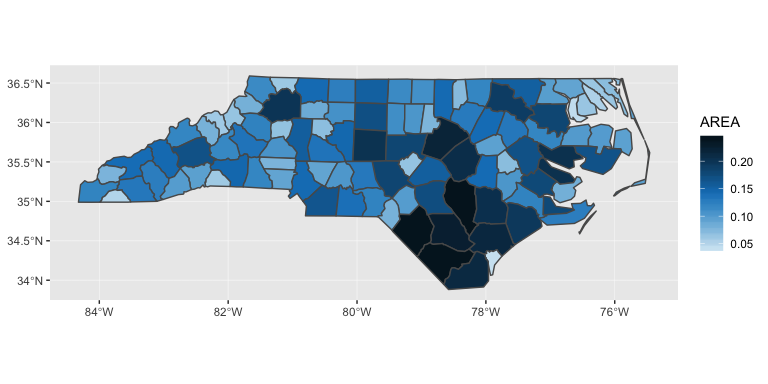
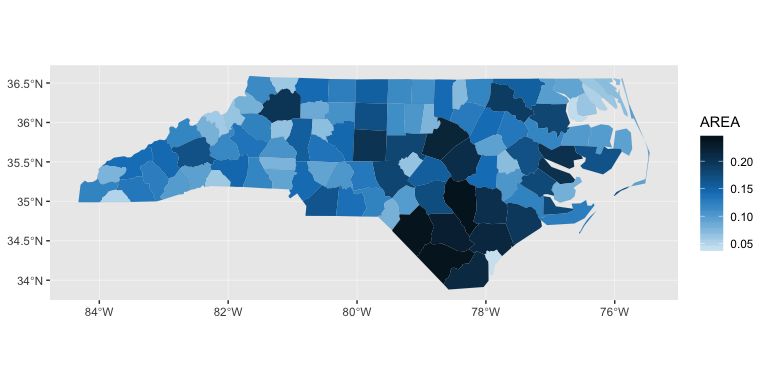
improve readme, add functions

diff --git a/README.md b/README.md
@@ -64,19 +64,13 @@ tinter(hex, steps = 10, crop = 7)
 
 ![](man/figures/README-crop-1.png)<!-- -->
 
-Use tinter to create a palette for a choropleth map.
+Create palette for a choropleth
+map.
 
 ``` r
-ggplot2::ggplot() +
-  ggplot2::geom_sf(data = sf::st_read(system.file(package = "sf", "shape/nc.shp")), ggplot2::aes(fill = AREA)) +
+ggplot2::ggplot(data = sf::st_read(system.file(package = "sf", "shape/nc.shp"))) +
+  ggplot2::geom_sf(ggplot2::aes(fill = AREA), colour = "black", lwd = 0.01) +
   ggplot2::scale_fill_gradientn(colours = tinter(hex))
-#> Reading layer `nc' from data source `/Library/Frameworks/R.framework/Versions/3.5/Resources/library/sf/shape/nc.shp' using driver `ESRI Shapefile'
-#> Simple feature collection with 100 features and 14 fields
-#> geometry type:  MULTIPOLYGON
-#> dimension:      XY
-#> bbox:           xmin: -84.32385 ymin: 33.88199 xmax: -75.45698 ymax: 36.58965
-#> epsg (SRID):    4267
-#> proj4string:    +proj=longlat +datum=NAD27 +no_defs
 ```
 
 ![](man/figures/README-plot-1.png)<!-- -->
